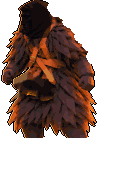
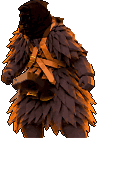
Pixel art second pass: each picture's own palette, edge-keeping smooth, softer outlines
The street and both figures are rebaked from Daniele's pictures with their own k-means
palettes in Lab, a bilateral smooth before the shrink, a light sharpen on the grid, lone
cells merged into their neighbours and outlines in a dark shade of the colour beside them.
The lantern glow sits under the portraits in the pixel look so it no longer washes them.

Claude-Session: https://claude.ai/code/session_01NU82NZQo49UMwoRckZz3mp

diff --git a/tools/art/pixel3d/bake_figures.py b/tools/art/pixel3d/bake_figures.py
@@ -9,7 +9,7 @@
 Every part is a picture of the same size (the whole figure's canvas, feet at the bottom centre), so
 they line up when none has moved. What a part covers is painted into the parts under it (fleece
 under the bells, a dark shadow under the head), so nothing shows a hole when a part slides. Each
-part is shrunk to the play screen's grid, snapped to the palette and outlined in ink.
+part is shrunk to the play screen's grid, snapped to the figure's own palette and outlined (see bake).
 
 Writes game/art/pixel/<figure>_<part>.png and prints the pivots for PixelFigure.PARTS.
 """
@@ -24,7 +24,10 @@ SRC = os.path.join(px.GAME, "art/street")
 OUT = os.path.join(px.GAME, "art/pixel")
 H = 172   # cells tall (the figure in its portrait on the base screen; 118, then 140, until Daniele asked for figures that fill their portraits, 2026-10-05)
 
-HSV_GOLD = ((12, 31), (110, 256), (100, 256))
+K = 40          # colours in each figure's own palette
+SHARPEN = 0.7   # unsharp amount on the grid
+
+HSV_GOLD =((12, 31), (110, 256), (100, 256))
 
 
 def gold(a, box):
@@ -81,66 +84,45 @@ def shrink_rgba(a, size):
     return out
 
 
-def punch(rgb, alpha, clip=1.4, gain=1.0, lift=4):
-    """Pixel art reads by value: lift the dark figure's local contrast and colour a little."""
-    lab = cv2.cvtColor(np.ascontiguousarray(rgb), cv2.COLOR_RGB2LAB)
-    L = lab[..., 0]
-    if clip > 0:
-        L = cv2.createCLAHE(clipLimit=clip, tileGridSize=(4, 4)).apply(L)
-    lab[..., 0] = np.clip(L.astype(np.float32) * gain + lift, 0, 255).astype(np.uint8)
-    out = cv2.cvtColor(lab, cv2.COLOR_LAB2RGB).astype(np.float32)
-    g = out.mean(-1, keepdims=True)
-    out = np.clip(g + (out - g) * 1.2, 0, 255).astype(np.uint8)
+def tone(rgb, alpha, contrast=1.15, sat=1.25):
+    """In the game the figures stand in warm firelight that washes them a little: a touch more value
+    contrast and colour than the picture (a straight stretch, not the old local CLAHE that turned
+    the fleece to noise)."""
+    lab = cv2.cvtColor(np.ascontiguousarray(rgb), cv2.COLOR_RGB2LAB).astype(np.float32)
+    m = lab[..., 0][alpha > 0].mean() if (alpha > 0).any() else 128.0
+    lab[..., 0] = (lab[..., 0] - m) * contrast + m
+    lab[..., 1:] = (lab[..., 1:] - 128.0) * sat + 128.0
+    out = cv2.cvtColor(np.clip(lab, 0, 255).astype(np.uint8), cv2.COLOR_LAB2RGB)
     return np.where(alpha[..., None] > 0, out, rgb)
 
 
-def rim(s, side, col=(255, 200, 120)):
-    """A warm rim of firelight on the side of the figure facing the bonfire (side +1: its right)."""
-    a = s[..., 3] > 0
-    nb = np.roll(a, -side, axis=1)
-    if side > 0:
-        nb[:, -1] = False
-    else:
-        nb[:, 0] = False
-    edge = a & ~nb
-    out = s.copy().astype(np.float32)
-    out[edge, :3] = out[edge, :3] * 0.35 + np.array(col) * 0.65
-    out = out.astype(np.uint8)
-    out[edge, :3] = px.snap(out[edge, :3].reshape(-1, 1, 3)).reshape(-1, 3)
-    return out
-
-
-def bake(name, parts, order, layers_fn, side=1, tone=(1.4, 1.0, 4)):
+def bake(name, parts, order, layers_fn, contrast=1.15):
+    """Second pass (2026-10-05): the figure's own look kept. Each part is smoothed (edges kept),
+    shrunk by area, sharpened a little, snapped to the figure's OWN K colours (taken from the whole
+    figure at this size, so the parts match), cleared of lone stray cells and outlined in a dark
+    shade of the colour beside it. No more contrast push, firelit rim or lifted mask: the picture
+    already has its firelight, and the push made the fleece noisy and the black mask pale."""
     a = np.asarray(Image.open(os.path.join(SRC, name + "_bob_0.png")).convert("RGBA")).copy()
     a[..., 3] = np.where(a[..., 3] > 100, 255, 0)
     h, w = a.shape[:2]
     k = H / h
     size = (int(round(w * k)), H)
-    flat = a.copy()
-    flat[..., :3] = px.flatten(np.ascontiguousarray(a[..., :3]), 4, 12)
-    flat[..., :3] = punch(flat[..., :3], flat[..., 3], *tone)
-    layers = layers_fn(flat, parts)
+    soft = a.copy()
+    soft[..., :3] = px.smooth(a[..., :3])
+    whole = shrink_rgba(soft, size)
+    pal = px.kpalette(tone(px.sharpen(whole[..., :3], SHARPEN), whole[..., 3], contrast)[whole[..., 3] > 0], K)
+    layers = layers_fn(soft, parts)
     union = np.zeros((H, size[0]), bool)
     small = {}
     for p in order:
         s = shrink_rgba(layers[p], size)
         opaque = s[..., 3] > 0
-        if p == "head" and name == "mamuthone":
-            # the black wooden mask: lift its carved planes so the face reads at this size
-            hs = s[..., :3].astype(np.float32)
-            lum = hs.mean(-1, keepdims=True)
-            hs = np.where(opaque[..., None], np.clip(lum + (hs - lum) * 0.6, 0, 255) * 1.0 + (lum - 30) * 0.9, hs)
-            s[..., :3] = np.clip(hs, 0, 255).astype(np.uint8)
-        if "bells" in p:
-            # the bronze stands out from the fleece: brighter and warmer than in the picture
-            s[..., :3] = np.clip(s[..., :3].astype(np.float32) * np.array([1.12, 1.06, 0.95]) + 4, 0, 255).astype(np.uint8)
-        s[..., :3] = np.where(opaque[..., None], px.snap(s[..., :3]), 0)
-        s = rim(s, side)
+        idx = px.despeckle(px.nearest(tone(px.sharpen(s[..., :3], SHARPEN), s[..., 3], contrast), pal), opaque, pal)
+        s[..., :3] = np.where(opaque[..., None], pal[idx], 0)
         small[p] = s
         union |= opaque
-    pivots = {}
     for p in order:
-        s = px.outline(small[p])
+        s = px.selout(small[p], 0.15)
         # no ink inside the figure's own silhouette for the big base parts: only round its outside
         if p in ("body", "legs"):
             ring = (s[..., 3] > 0) & (small[p][..., 3] == 0)
@@ -192,8 +174,8 @@ def issohadore_layers(a, parts):
 
 def main():
     os.makedirs(OUT, exist_ok=True)
-    bake("mamuthone", None, ["legs", "body", "back_bells", "front_bells", "head"], mamuthone_layers, -1, (0, 0.95, 0))
-    bake("issohadore", None, ["legs", "body", "rope", "head"], issohadore_layers, 1)
+    bake("mamuthone", None, ["legs", "body", "back_bells", "front_bells", "head"], mamuthone_layers)
+    bake("issohadore", None, ["legs", "body", "rope", "head"], issohadore_layers)
 
 
 if __name__ == "__main__":

diff --git a/tools/art/pixel3d/pixelate.py b/tools/art/pixel3d/pixelate.py
@@ -1,9 +1,12 @@
 """Shared steps for turning Daniele's pictures into pixel art on the play screen's grid.
 
-pixelate(rgb, size, ...) flattens the picture's texture into areas first (mean shift, so the cells
-take clean colours instead of noise), shrinks it to `size` by area, then snaps every cell to the
-palette (game/art/pixel/palette.png), nearest in Lab, with a light ordered dither only where the
-picture is a smooth gradient (the sky), so flat areas stay flat.
+The second pass (Daniele, 2026-10-05: "do a better job with the pixel artification") keeps each
+picture's own look: an edge-keeping smooth (bilateral, not mean shift: that melted the flames and
+the fleece), a shrink by area, a light sharpen on the grid, then a palette of the picture's OWN
+colours (k-means in Lab: kpalette) instead of one shared palette, nearest colour in Lab, no dither,
+lone stray cells merged into their neighbours (despeckle), and an outline in a dark shade of the
+colour next to it (selout) rather than flat ink. The older shared palette (palette.png, snap) is
+kept for PixelFilter, which only runs without the World viewport.
 """
 import os
 import numpy as np
@@ -64,4 +67,75 @@ def outline(rgba, ink=(7, 6, 10)):
     out = rgba.copy()
     out[..., 3] = np.where(a, 255, 0)
     out[ring] = (*ink, 255)
+    return out
+
+
+# ------------------------------------------------------------------ second pass
+
+
+def rgb_of_lab(L):
+    sh = L.shape
+    return cv2.cvtColor(np.clip(L, 0, 255).astype(np.uint8).reshape(-1, 1, 3), cv2.COLOR_LAB2RGB).reshape(sh)
+
+
+def kpalette(pixels, k, seed=7):
+    """The picture's own k colours (k-means in Lab over `pixels`, any shape ending in 3)."""
+    L = lab(np.asarray(pixels, np.uint8).reshape(-1, 1, 3)).reshape(-1, 3)
+    crit = (cv2.TERM_CRITERIA_EPS + cv2.TERM_CRITERIA_MAX_ITER, 80, 0.3)
+    cv2.setRNGSeed(seed)
+    _, _, c = cv2.kmeans(L.astype(np.float32), k, None, crit, 5, cv2.KMEANS_PP_CENTERS)
+    return rgb_of_lab(c.reshape(-1, 3))
+
+
+def nearest(rgb, pal):
+    """Index of the palette colour nearest in Lab, per pixel."""
+    L = lab(rgb)
+    P = lab(pal.reshape(-1, 1, 3)).reshape(-1, 3)
+    return np.argmin(((L[..., None, :] - P) ** 2).sum(-1), -1)
+
+
+def smooth(rgb, d=7, sc=24, ss=5):
+    """Edge-keeping smooth before the shrink: the texture goes, the shapes' edges stay."""
+    return cv2.bilateralFilter(np.ascontiguousarray(rgb), d, sc, ss)
+
+
+def sharpen(rgb, amount=0.7):
+    f = rgb.astype(np.float32)
+    return np.clip(f + (f - cv2.GaussianBlur(f, (0, 0), 0.8)) * amount, 0, 255).astype(np.uint8)
+
+
+def despeckle(idx, mask, pal, passes=2, max_d=28.0):
+    """A cell unlike all four neighbours, three of which agree on a close colour, takes theirs."""
+    P = lab(pal.reshape(-1, 1, 3)).reshape(-1, 3)
+    h, w = idx.shape
+    for _ in range(passes):
+        out = idx.copy()
+        pad = np.pad(idx, 1, mode="edge")
+        pm = np.pad(mask, 1)
+        nb = [pad[0:h, 1:w + 1], pad[2:h + 2, 1:w + 1], pad[1:h + 1, 0:w], pad[1:h + 1, 2:w + 2]]
+        nm = [pm[0:h, 1:w + 1], pm[2:h + 2, 1:w + 1], pm[1:h + 1, 0:w], pm[1:h + 1, 2:w + 2]]
+        same = sum(((n == idx) & m) for n, m in zip(nb, nm))
+        for y, x in zip(*np.nonzero((same == 0) & mask)):
+            vals = [int(nb[k][y, x]) for k in range(4) if nm[k][y, x]]
+            if len(vals) < 3:
+                continue
+            u, c = np.unique(vals, return_counts=True)
+            j = u[np.argmax(c)]
+            if c.max() >= 3 and np.linalg.norm(P[j] - P[idx[y, x]]) < max_d:
+                out[y, x] = j
+        idx = out
+    return idx
+
+
+def selout(rgba, keep=0.25, ink=(10, 7, 12)):
+    """A one-cell outline round the opaque part, each cell a dark shade of the colour beside it."""
+    a = rgba[..., 3] > 0
+    ker = np.array([[0, 1, 0], [1, 1, 1], [0, 1, 0]], np.uint8)
+    ring = (cv2.dilate(a.astype(np.uint8), ker) > 0) & ~a
+    f = rgba[..., :3].astype(np.float32) * a[..., None]
+    near = cv2.blur(f, (3, 3)) / np.maximum(cv2.blur(a.astype(np.float32), (3, 3))[..., None], 1e-3)
+    out = rgba.copy()
+    out[..., 3] = np.where(a, 255, 0)
+    out[ring, :3] = (near * keep + np.array(ink, np.float32) * (1.0 - keep))[ring].astype(np.uint8)
+    out[ring, 3] = 255
     return out

diff --git a/tools/art/pixel3d/bake_street.py b/tools/art/pixel3d/bake_street.py
@@ -15,20 +15,16 @@ import pixelate as px
 SRC = os.path.join(px.GAME, "art/street/street.png")
 OUT = os.path.join(px.GAME, "art/pixel/street.png")
 CELL = 3.0 / max(720.0 / 941.0, 1440.0 / 1672.0)   # picture px per cell on the base screen
+K = 56   # colours in the street's own palette
 
 
 def main():
     rgb = np.asarray(Image.open(SRC).convert("RGB"))
     h, w = rgb.shape[:2]
     size = (int(round(w / CELL)), int(round(h / CELL)))
-    # the cobbles and walls flattened into areas; the fire and the sky kept as they are (mean shift
-    # would melt the flames and their sparks into one red smear)
-    flat = px.flatten(rgb, 4, 12)
-    keep = np.zeros(rgb.shape[:2], np.float32)
-    keep[:470] = 1.0
-    keep = cv2.GaussianBlur(keep, (0, 0), 12)[..., None]
-    soft = cv2.bilateralFilter(np.ascontiguousarray(rgb), 7, 30, 5)
-    mixed = (soft * keep + flat * (1.0 - keep)).astype(np.uint8)
+    # an edge-keeping smooth over the whole picture: the stones' texture goes, the flames, walls
+    # and lines keep their edges
+    mixed = px.smooth(rgb, 9, 20, 7)
     # the red haze the picture puts above the flames reads as a solid red column once it is pixels:
     # let the night sky show through it (only dim, red, above the flames)
     hz = mixed.astype(np.float32)
@@ -39,12 +35,13 @@ def main():
     m = cv2.GaussianBlur(m, (0, 0), 3)[..., None]
     sky = np.array([28, 26, 52], np.float32)
     mixed = (hz * (1 - 0.8 * m) + sky * 0.8 * m).astype(np.uint8)
-    small = px.shrink(mixed, size)
-    # dither only the dark, plain sky (not the fire's glow): bands there would show
-    m = px.gradient_mask(small)
-    lum = small.astype(np.float32).mean(-1)
-    m *= (lum < 60).astype(np.float32)
-    out = px.snap(small, dither=m, amount=6.0)
+    small = px.sharpen(px.shrink(mixed, size), 0.6)
+    # the street's own colours; the bright fire counted four times over, so its yellows and whites
+    # each get a colour instead of all snapping to one red
+    flat = small.reshape(-1, 3)
+    pal = px.kpalette(np.concatenate([flat, np.repeat(flat[flat.mean(-1) > 150], 3, 0)]), K)
+    idx = px.despeckle(px.nearest(small, pal), np.ones(small.shape[:2], bool), pal, 2, 22.0)
+    out = pal[idx]
     Image.fromarray(out.astype(np.uint8)).save(OUT)
     print("street", size)
 
